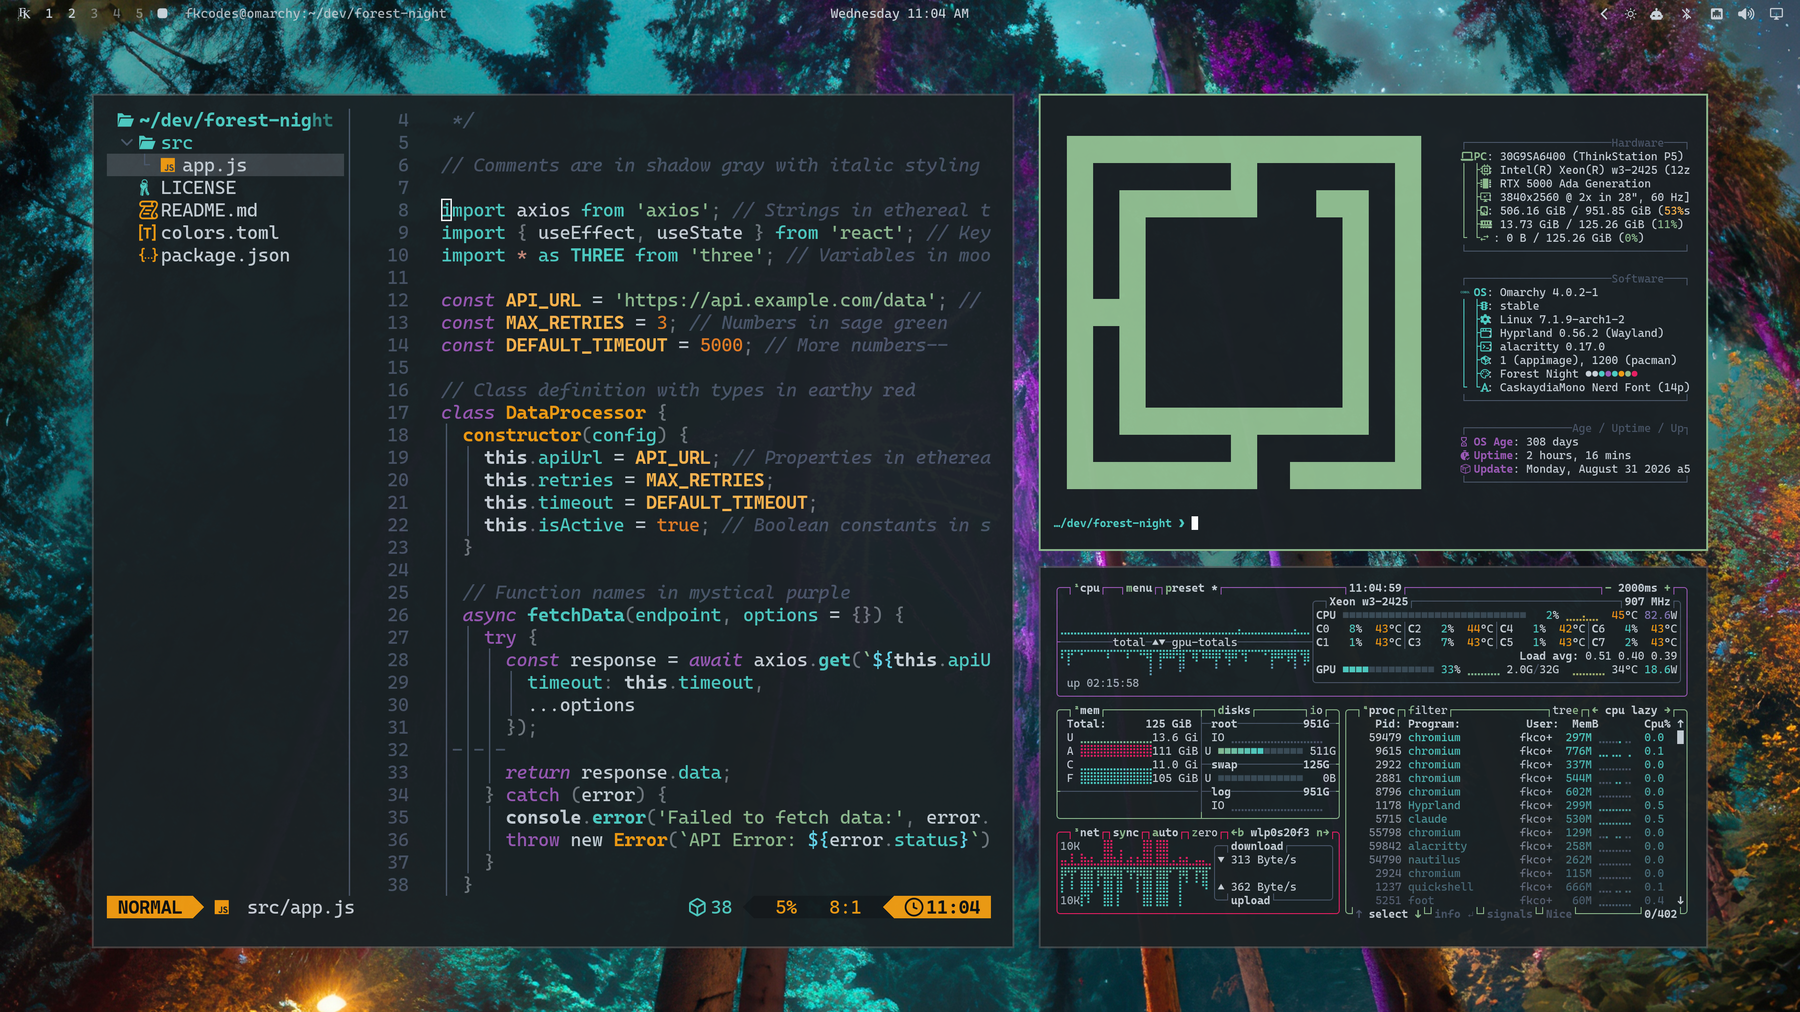
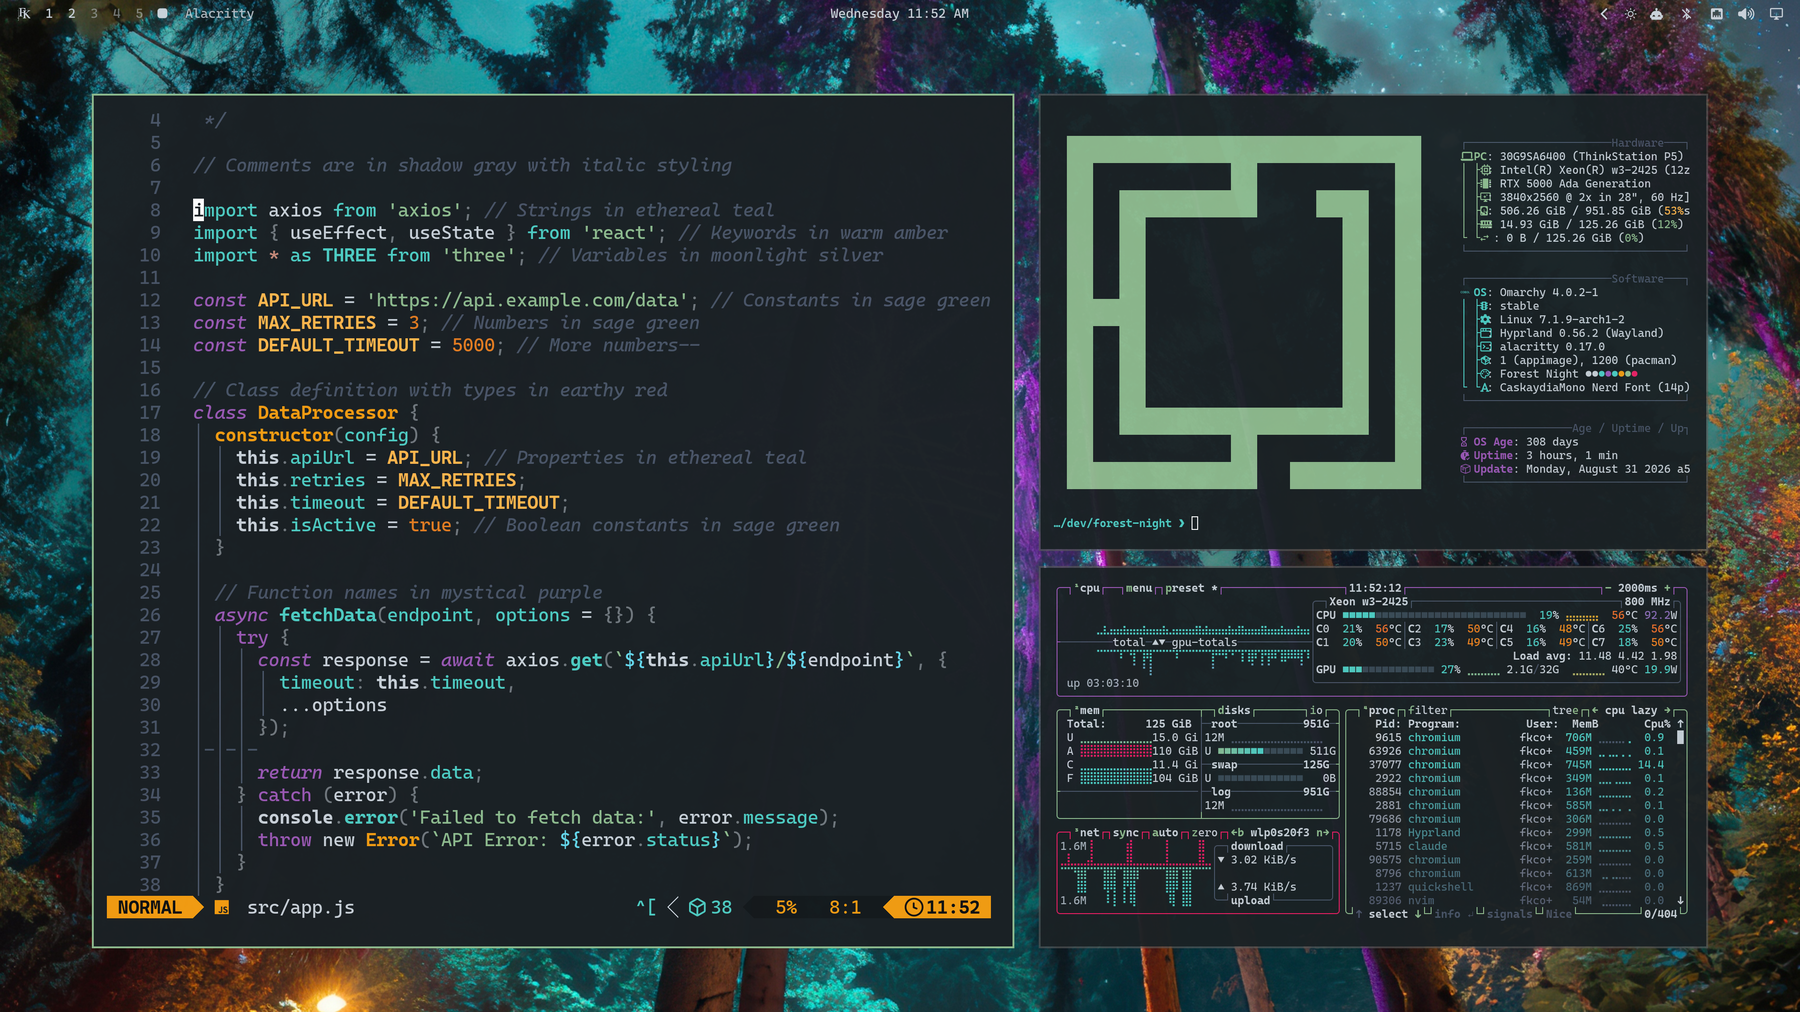
Add Ashenvale background, credit artist, new preview

diff --git a/README.md b/README.md
@@ -42,6 +42,12 @@ screen, Obsidian, Claude Code, ...) is generated by Omarchy from `colors.toml`.
 - VS Code: [Forest Night — Ethereal](https://marketplace.visualstudio.com/items?itemName=forrest-knight.forest-night-theme)
 - Icons: `Yaru-sage`
 
+## Backgrounds
+
+- `1-forest-night.jpg`
+- `2-mesmeric-forest.png` — *Ashenvale* by Forange, from his
+  [original post](https://www.reddit.com/r/wow/comments/hwl2n0/ashenvale_art_by_me_forange/).
+
 ## License
 
 MIT — see [LICENSE](LICENSE).
